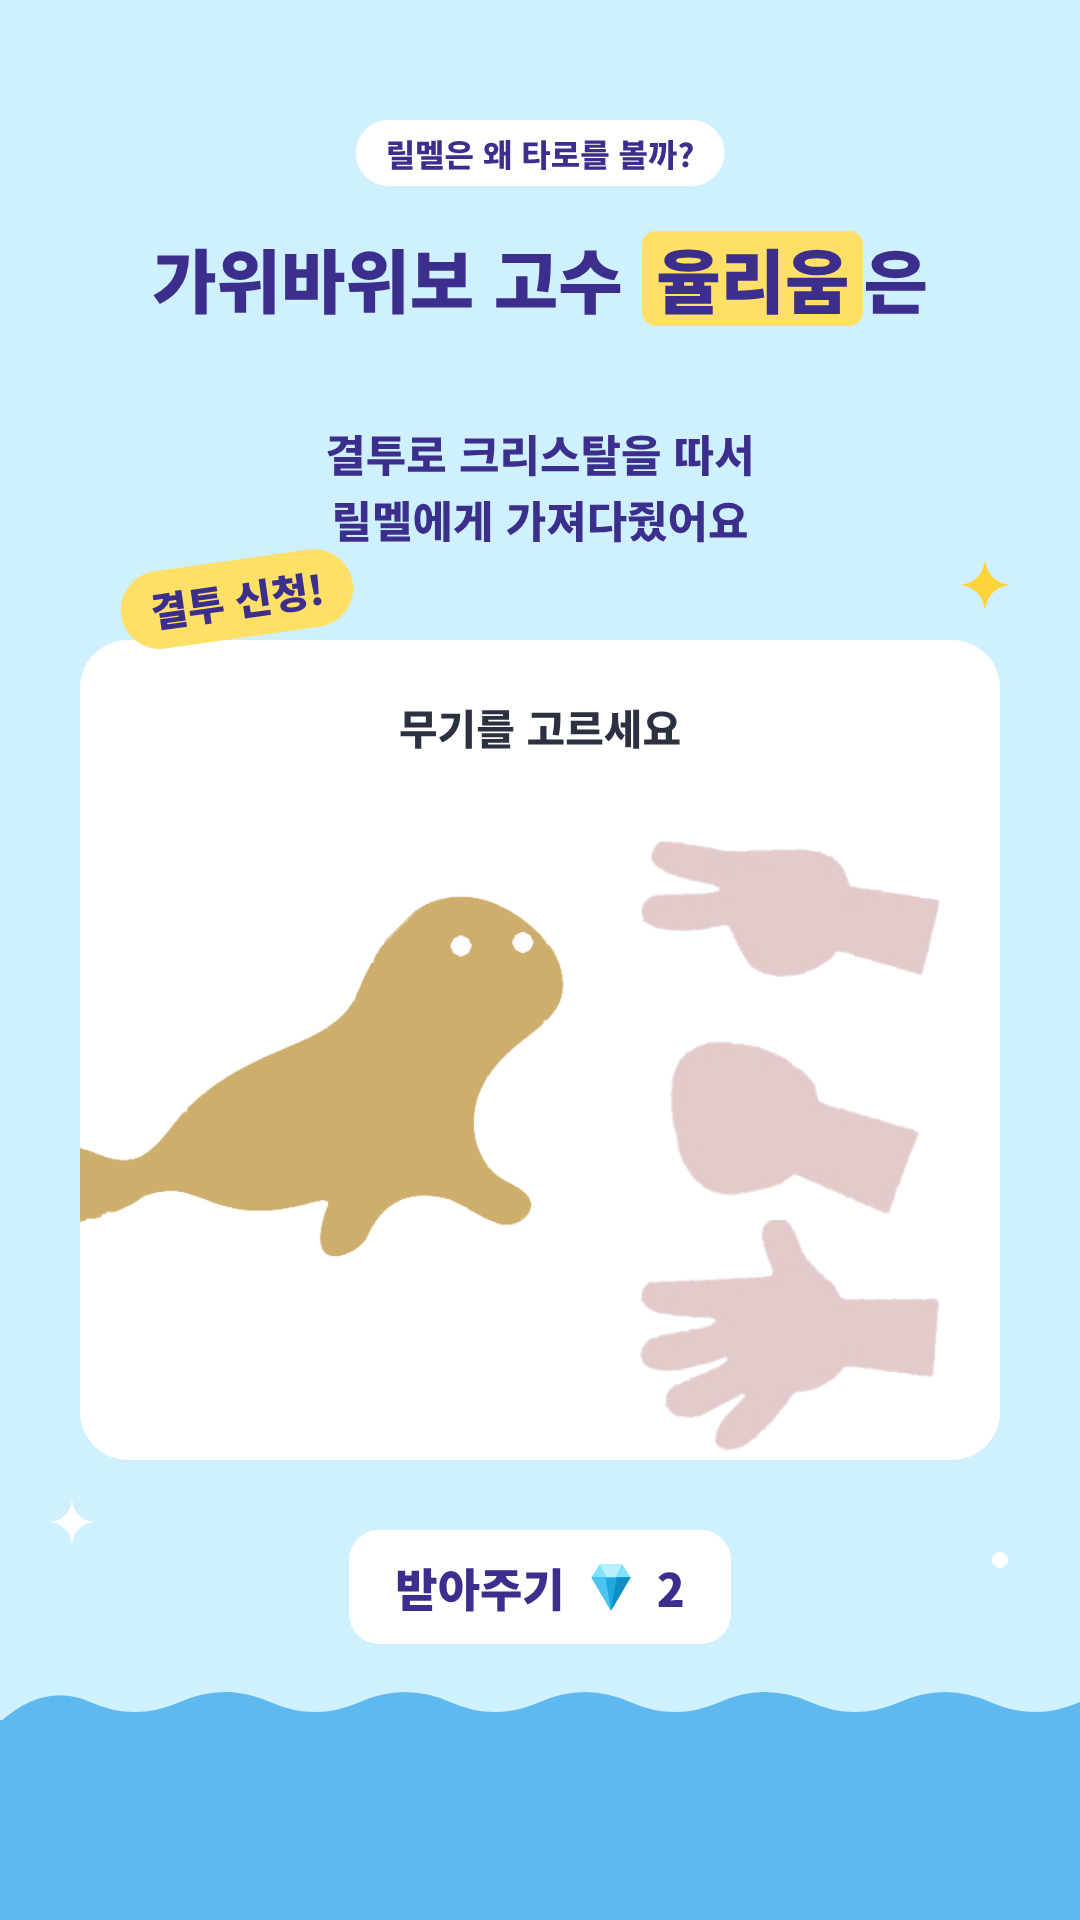
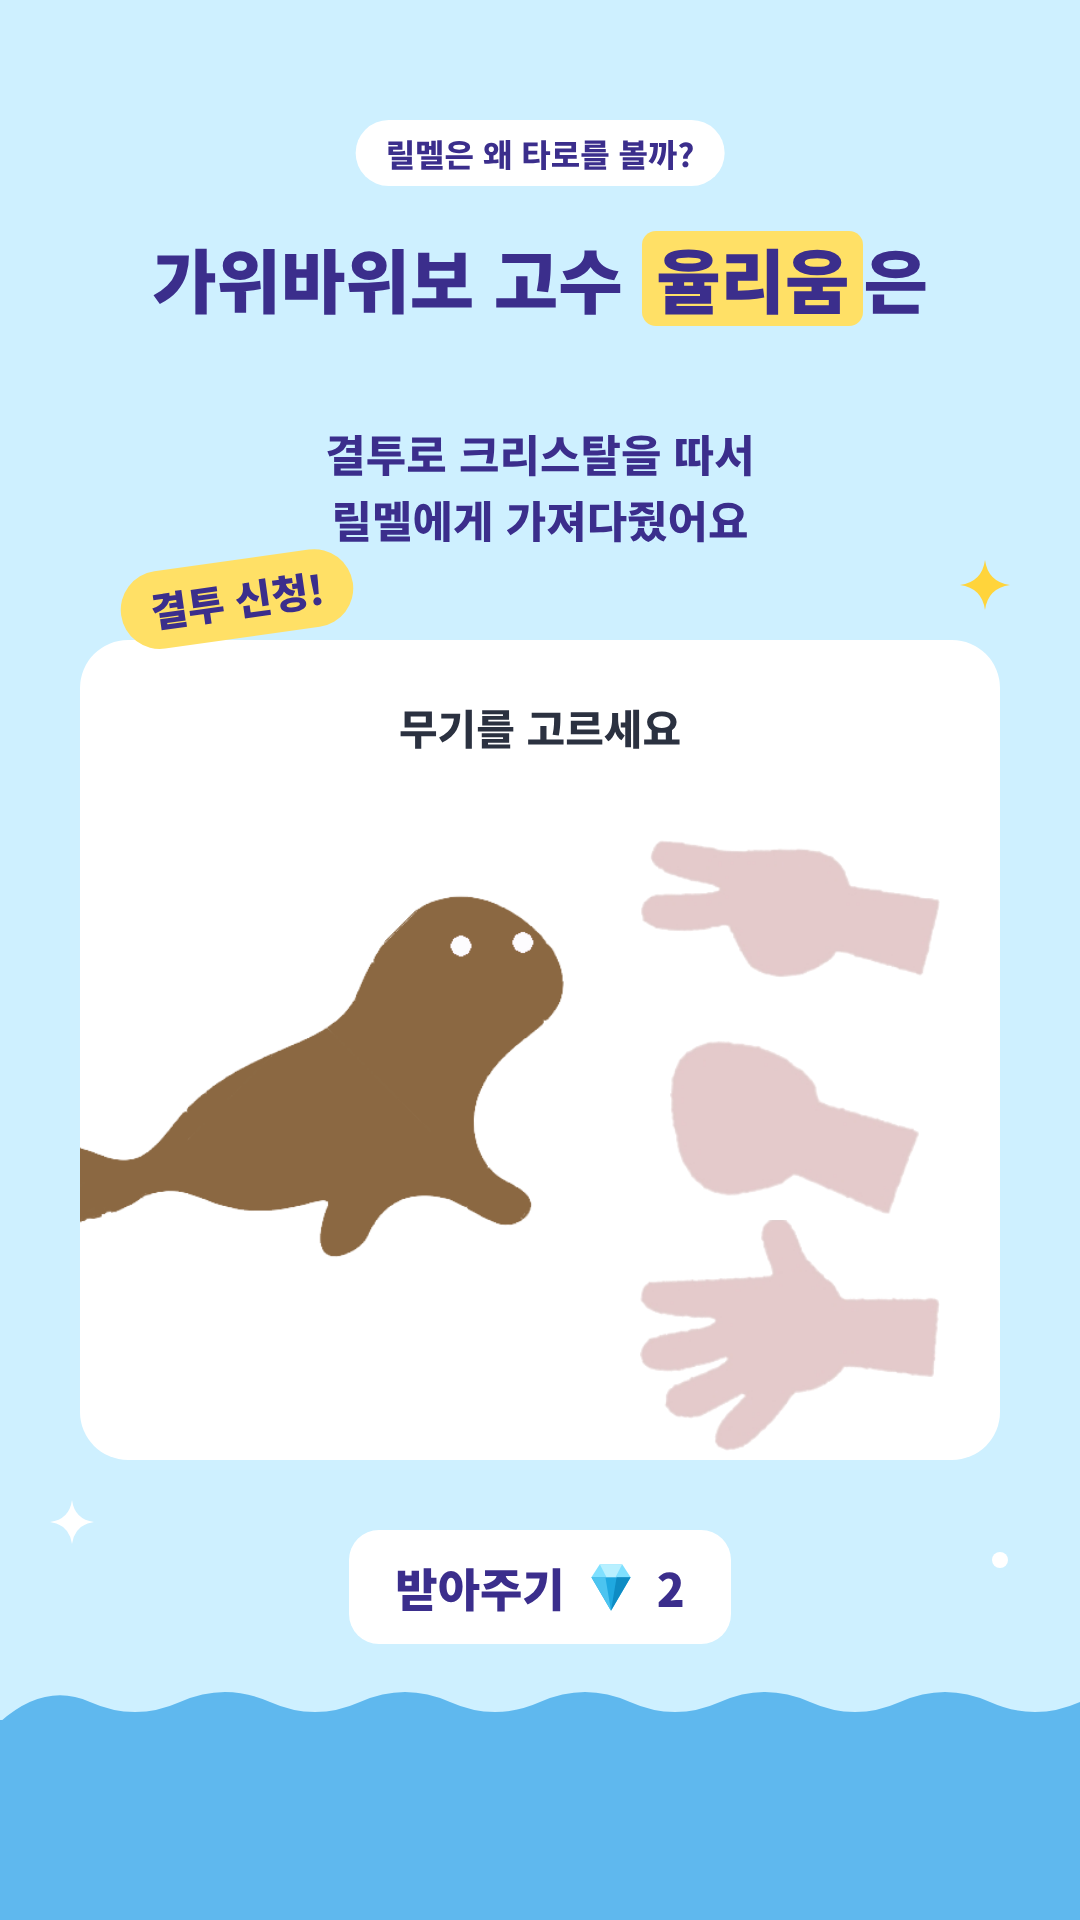
릴스 스토리: 율리움을 갈색으로
Claude-Session: https://claude.ai/code/session_01CejgdC5FKbbZMnpaYgrfgJ

Changed region(s): [[0.0611, 0.4688, 0.5194, 0.6562]]

diff --git a/promo/src/reel_story_06_rps.html b/promo/src/reel_story_06_rps.html
@@ -19,7 +19,7 @@
   <span class="win">결투 신청!</span>
   <div class="modal">
     <p class="mt">무기를 고르세요</p>
-    <img class="seal" src="sealion_tan.png" alt="율리움">
+    <img class="seal" src="sealion_brown.png" alt="율리움">
     <img class="h" src="hand_scissors.png" alt="가위" style="top:200px">
     <img class="h" src="hand_rock.png" alt="바위" style="top:400px;width:250px;left:590px">
     <img class="h" src="hand_paper.png" alt="보" style="top:580px">
